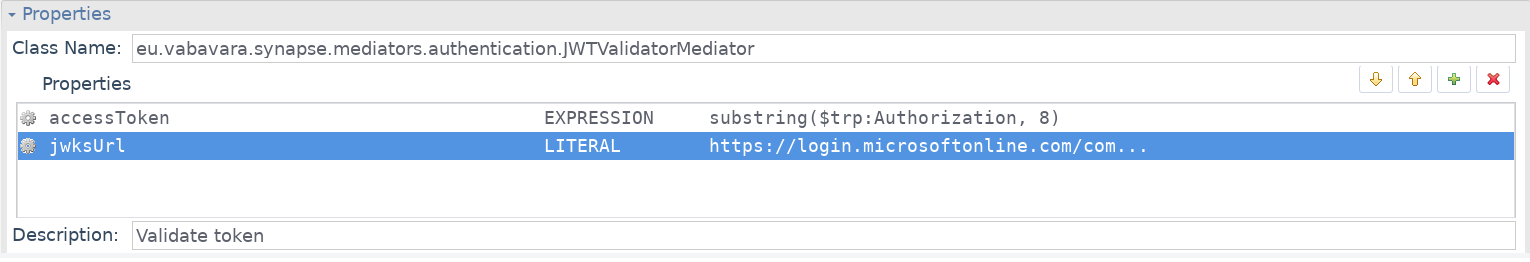
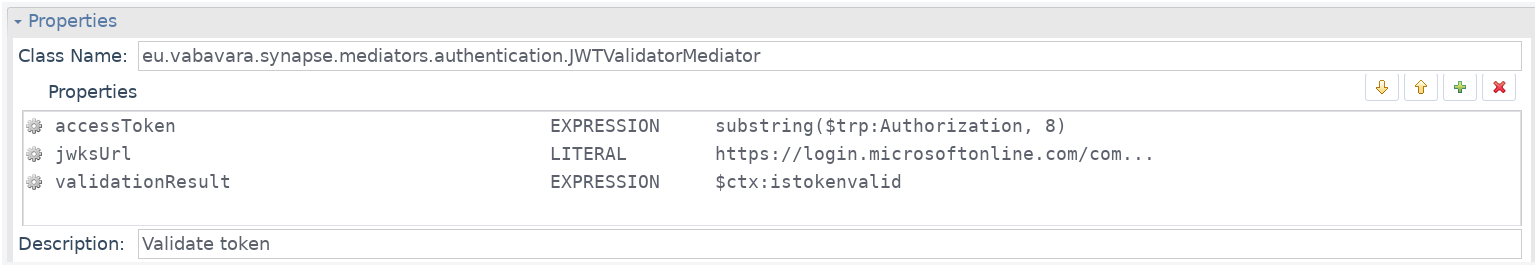
Correct behaviour of return values from mediation - we do not want to stop mediation for all errors.

diff --git a/src/main/java/eu/vabavara/synapse/mediators/authentication/JWTValidatorMediator.java b/src/main/java/eu/vabavara/synapse/mediators/authentication/JWTValidatorMediator.java
@@ -33,6 +33,11 @@ public class JWTValidatorMediator extends AbstractMediator {
 	 * Access token to verify.
 	 */
 	private String accessToken = null;
+	
+	/**
+	 * Stores validation result. true for pass, false for fail.
+	 */
+	private boolean validationResult = false;
 
 	public boolean mediate(MessageContext context) {
 		SynapseLog log = getLog(context);
@@ -86,8 +91,7 @@ public class JWTValidatorMediator extends AbstractMediator {
 				// InvalidJwtException will be thrown, if the JWT failed processing or
 				// validation in anyway.
 				// Hopefully with meaningful explanations(s) about what went wrong.
-				if(isTraceOrDebugOn)
-					log.traceOrDebugWarn("Invalid JWT! " + e);
+				log.auditLog("Invalid JWT! " + e);
 
 				// Programmatic access to (some) specific reasons for JWT invalidity is also
 				// possible
@@ -99,12 +103,14 @@ public class JWTValidatorMediator extends AbstractMediator {
 				}
 				context.setProperty(HTTP_SC, "401");
 
-				return false;
+				this.setValidationResult(false);
+				return true;
 			}
 
 			if(isTraceOrDebugOn) {
 				log.traceOrDebug("End: OIDC mediator");
 			}
+			this.setValidationResult(true);
 			return true;
 		} catch (Exception e) {
 			log.error("Error occurred while processing the message");
@@ -112,6 +118,7 @@ public class JWTValidatorMediator extends AbstractMediator {
 			if(isTraceOrDebugOn) {
 				log.traceOrDebug(e);	
 			}
+			this.setValidationResult(false);
 			return false;
 		}
 	}
@@ -130,6 +137,14 @@ public class JWTValidatorMediator extends AbstractMediator {
 
 	public void setJwksUrl(String jwksUrl) {
 		this.jwksUrl = jwksUrl;
+	}
+
+	public boolean isValidationResult() {
+		return validationResult;
+	}
+
+	public void setValidationResult(boolean validationResult) {
+		this.validationResult = validationResult;
 	}
 
 	

diff --git a/readme.md b/readme.md
@@ -11,17 +11,19 @@ Just copy the jar and jose4j jar (see [Dependencies](#Dependencies)) into WSO2 l
 1. Add a class mediator to the sequence.
 2. Specify  `eu.vabavara.synapse.mediators.authentication.JWTValidatorMediator` as the class name.
 3. Add properties to configure the behaviour of the handler:
-    * accessToken - Access token to validate.
-    * jwksUrl - URIs of the keyws page of your auhtentication provider. This URI is usually published in `\[Issuer URL\]/.well-known/openid-configuration` resource.
+    * `accessToken` - Access token to validate.
+    * `jwksUrl` - URIs of the keyws page of your auhtentication provider. This URI is usually published in `<Issuer URL>/.well-known/openid-configuration` resource.
+    * `validationResult` - Boolean value where the mediator writes the validation result. `true` for valid tokens and `false` for invalid tokens or other validation errors. Error details can be found in `ERROR_MESSAGE`context variable for some validation errors.
     ![Example of mediator properties in IntegrationStudio](doc/configure_class_mediator.png)
     ```xml
     <!-- Example of configuration with Azure AD. -->
     <class description="Validate token" name="eu.vabavara.synapse.mediators.authentication.JWTValidatorMediator">
         <property expression="substring($trp:Authorization, 8)" name="accessToken"/>
         <property name="jwksUrl" value="https://login.microsoftonline.com/common/discovery/keys"/>
+        <property name="validationResult" expression="$ctx:istokenvalid"/>
     </class>
     ```
-3. The mediator will fault the sequence and specify HTTP 401 Unauthorized response should be returned in case the token validaion fails. It is up to the application to conduct further checks (e.g. validate issuer, audience, application and subject).
+3. The mediator will specify HTTP 401 Unauthorized response should be returned in case the token validaion fails. It is up to the application to conduct further checks (e.g. validate issuer, audience, application and subject).
 
 ## Dependencies
 
